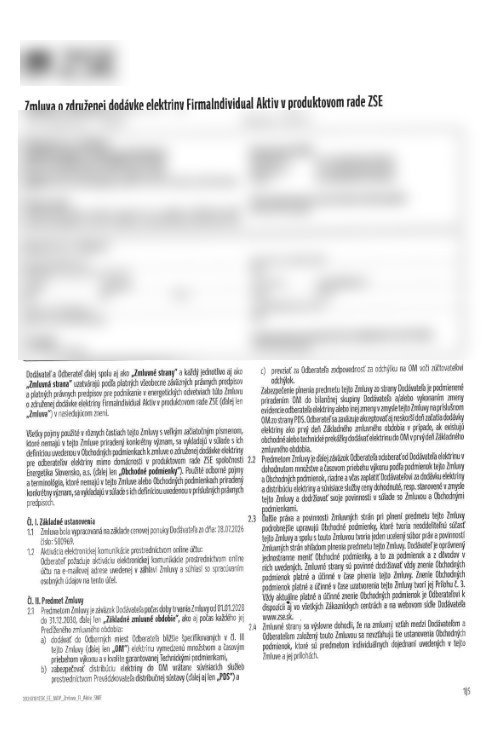
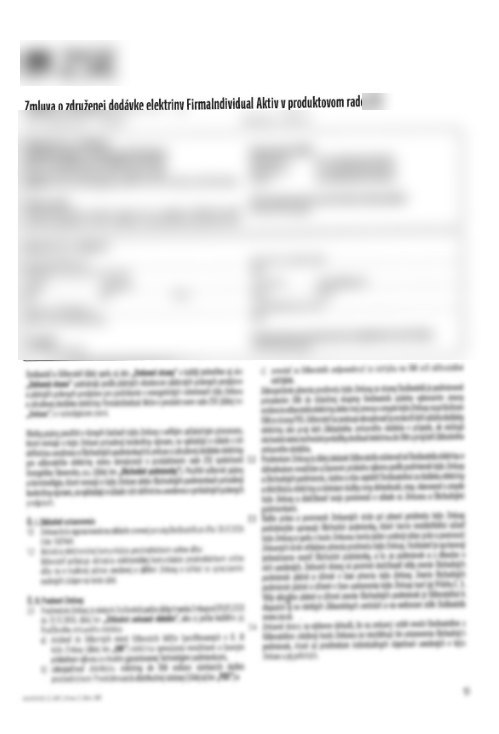
Obrazovka o zmluve: opravené poradie krokov, značka skrytá, karty A/B
Kroky boli v nezmyselnom poradí — najprv odfotiť, potom skryť údaje.
Prehodené: najprv sa prekryjú citlivé údaje, až potom sa fotí.

Značka dodávateľa zostávala čitateľná v nadpise dokumentu aj vo vnútri
zmluvných odstavcov. Nadpis je prekrytý a telo zmluvy zľahka rozostrené —
dohľadávať každý výskyt v texte by bolo krehké a poučné je aj tak to, aký
hustý taký dokument je, nie čo presne v ňom stojí.

"Vyskúšajte si prompt" je "Príklad promptu" a kopírovacie tlačidlo zmizlo —
je to ukážka, nie nástroj.

Dvojica otázok je teraz dvojica veľkých kariet A a B vedľa seba. Po výbere
zostanú čitateľné obe a pri každej sa doplní, čím presne je dobrá alebo
slabá — človek si tak porovná, v čom sa líšia.

Changed region(s): [[0.0301, 0.4796, 0.9319, 0.9292], [0.7214, 0.1199, 0.7816, 0.1499]]

diff --git a/public/assets/course.js b/public/assets/course.js
@@ -370,25 +370,6 @@
     wrap.appendChild(el("h3", "course-prompt-title", prompt.title || "Vyskúšajte si túto otázku"));
     const pre = el("div", "course-prompt-text", prompt.text.replace(/\n/g, "<br>"));
     wrap.appendChild(pre);
-    const btn = el("button", "btn btn-secondary course-prompt-copy", "Skopírovať otázku");
-    btn.type = "button";
-    btn.addEventListener("click", async () => {
-      try {
-        await navigator.clipboard.writeText(prompt.text);
-        btn.textContent = "Skopírované ✓";
-        btn.classList.add("copied");
-        setTimeout(() => { btn.textContent = "Skopírovať otázku"; btn.classList.remove("copied"); }, 2000);
-      } catch (err) {
-        // Bez povolenia na schránku aspoň text označíme, nech sa dá skopírovať ručne.
-        const range = document.createRange();
-        range.selectNodeContents(pre);
-        const sel = window.getSelection();
-        sel.removeAllRanges();
-        sel.addRange(range);
-        btn.textContent = "Text je označený — skopírujte ho";
-      }
-    });
-    wrap.appendChild(btn);
     card.appendChild(wrap);
   }
 
@@ -930,23 +911,38 @@
       box.appendChild(el("p", "course-choice-num",
         "<svg viewBox='0 0 24 24' fill='none' stroke='currentColor' stroke-width='2'><circle cx='12' cy='12' r='9'/><path d='M12 17h.01M9.5 9a2.5 2.5 0 0 1 5 0c0 1.5-2.5 2-2.5 3.5'/></svg>" +
         (slide.rounds.length === 1 && slide.chooseLabel ? slide.chooseLabel : "Otázka " + (idx + 1))));
-      const opts = el("div", "course-choice-opts");
-      const weak = el("button", "course-choice-opt", "<span class='course-choice-opt-icon'></span><span>" + r.weak + "</span>");
-      const good = el("button", "course-choice-opt", "<span class='course-choice-opt-icon'></span><span>" + r.good + "</span>");
-      [weak, good].forEach((b) => (b.type = "button"));
+      // Dve veľké karty vedľa seba, označené A a B. Po výbere obe zostanú
+      // čitateľné a doplní sa k nim, čím presne je otázka dobrá alebo slabá —
+      // človek si tak porovná, v čom sa líšia.
+      const opts = el("div", "course-choice-opts course-choice-cards");
+      const card2 = (letter, text) => {
+        const b = el("button", "course-choice-opt");
+        b.type = "button";
+        b.innerHTML =
+          "<span class='course-choice-letter'>" + letter + "</span>" +
+          "<span class='course-choice-body'><span class='course-choice-q'>" + text + "</span>" +
+          "<span class='course-choice-verdict'></span></span>" +
+          "<span class='course-choice-opt-icon'></span>";
+        return b;
+      };
+      const weak = card2("A", r.weak);
+      const good = card2("B", r.good);
       const result = el("div", "course-choice-result");
 
       function lock(chosenGood) {
         weak.disabled = true; good.disabled = true;
         good.classList.add("correct");
         good.querySelector(".course-choice-opt-icon").innerHTML = OPT_ICON_GOOD;
-        if (!chosenGood) {
-          weak.classList.add("incorrect");
-          weak.querySelector(".course-choice-opt-icon").innerHTML = OPT_ICON_BAD;
-        }
-        let html = "<p><strong>" + (chosenGood ? "Presne tak." : "Lepšia je druhá možnosť.") + "</strong> " + r.why + "</p>";
+        good.querySelector(".course-choice-verdict").textContent =
+          r.goodVerdict || "Konkrétna otázka — AI vie, na čo sa má pozrieť.";
+        weak.classList.add("incorrect");
+        weak.querySelector(".course-choice-opt-icon").innerHTML = OPT_ICON_BAD;
+        weak.querySelector(".course-choice-verdict").textContent =
+          r.weakVerdict || "Príliš všeobecná — odpoveď bude tiež všeobecná.";
+        let html = "<p><strong>" + (chosenGood ? "Správne." : "Lepšia je otázka B.") + "</strong> " + r.why + "</p>";
         if (r.answerPreview) html += "<p class='course-ai-answer'>„" + r.answerPreview + "“ — takto by mohla znieť odpoveď AI.</p>";
         result.innerHTML = html;
+        result.classList.add(chosenGood ? "ok" : "warn");
         result.classList.add("show");
       }
       weak.addEventListener("click", () => lock(false));

diff --git a/public/data/course.js b/public/data/course.js
@@ -666,8 +666,8 @@ window.COURSE_SLIDES = [
     },
     stepsTitle: "Ako na to — 4 kroky",
     steps: [
-      { title: "Odfotografujte alebo nahrajte zmluvu", text: "Nahrajte fotografiu, PDF alebo snímku obrazovky zmluvy do ChatGPT." },
-      { title: "Skryte osobné údaje", text: "Pred nahraním prekryte rodné číslo, číslo účtu, podpis, adresu, zákaznícke číslo a ďalšie citlivé údaje." },
+      { title: "Najprv skryte osobné údaje", text: "Prekryte rodné číslo, číslo účtu, podpis, adresu, zákaznícke číslo a ďalšie citlivé údaje — papierik, nálepka alebo prst pri fotení úplne stačia." },
+      { title: "Až potom odfotografujte alebo nahrajte", text: "Nahrajte do ChatGPT fotografiu, PDF alebo snímku obrazovky — už bez citlivých údajov." },
       { title: "Pýtajte sa konkrétne", text: "Namiesto otázky „Je táto zmluva dobrá?“ sa pýtajte na konkrétne veci: poplatky, pokuty, dobu viazanosti, výpoveď, zmenu ceny alebo automatické predĺženie." },
       { title: "Overte dôležité rozhodnutia", text: "AI sa môže pomýliť. Pri dôležitom rozhodnutí si odpoveď porovnajte s originálom zmluvy alebo sa poraďte s odborníkom." },
     ],
@@ -677,11 +677,13 @@ window.COURSE_SLIDES = [
         weak: "Je táto zmluva dobrá?",
         good: "Vysvetli mi túto zmluvu jednoducho. Na čo si mám dať pozor? Aké sú v nej poplatky, pokuty, viazanosť a podmienky výpovede?",
         why: "Čím konkrétnejšia otázka, tým užitočnejšiu odpoveď vám AI môže dať. Jej odpoveď si však vždy porovnajte s pôvodným textom zmluvy.",
+        weakVerdict: "Príliš všeobecná. „Dobrá“ je názor — AI netuší, podľa čoho ju má posúdiť, a odpovie tiež všeobecne.",
+        goodVerdict: "Konkrétna. AI vie, čo má v zmluve hľadať, a odpoveď sa dá overiť v texte.",
         answerPreview: "Napríklad: „Zmluva je uzatvorená na 24 mesiacov. Pri predčasnom ukončení sa v článku 7 uvádza pokuta 150 €. Skontrolujte aj podmienky automatického predĺženia.“",
       },
     ],
     prompt: {
-      title: "Vyskúšajte si prompt",
+      title: "Príklad promptu",
       text: "Vysvetli mi túto zmluvu jednoduchou slovenčinou, akoby si ju vysvetľoval človeku, ktorý sa nevyzná v právnych pojmoch. Upozorni ma najmä na:\n– cenu a všetky poplatky,\n– pokuty a sankcie,\n– dobu viazanosti,\n– podmienky výpovede,\n– automatické predĺženie,\n– možnosť zmeny ceny.\nAk niečomu nerozumieš alebo to v dokumente nevidíš, povedz to a nevymýšľaj si.",
     },
     note: "AI vám môže zmluvu vysvetliť, ale nerozhoduje za vás. Dôležité údaje si vždy skontrolujte v origináli dokumentu.",

diff --git a/public/assets/styles.css b/public/assets/styles.css
@@ -712,6 +712,25 @@ label {
 .course-choice-num svg { width: 18px; height: 18px; flex: none; }
 .course-belief-text { font-size: 1.02rem; margin: 0 0 .9rem; }
 .course-choice-opts { display: flex; flex-direction: column; gap: .6rem; }
+/* Dvojica otázok ako karty vedľa seba — na porovnanie treba vidieť obe naraz. */
+.course-choice-cards { display: grid; grid-template-columns: 1fr 1fr; gap: .8rem; }
+@media (max-width: 700px) { .course-choice-cards { grid-template-columns: 1fr; } }
+.course-choice-cards .course-choice-opt {
+  align-items: flex-start; gap: .7rem; padding: 1rem 1.05rem; border-radius: 14px;
+  border: 2px solid var(--line); background: var(--surface); text-align: left; height: 100%;
+}
+.course-choice-letter {
+  flex: none; width: 30px; height: 30px; border-radius: 50%; display: inline-flex;
+  align-items: center; justify-content: center; font-weight: 700; font-size: .95rem;
+  background: var(--surface-2); color: var(--ink);
+}
+.course-choice-cards .course-choice-opt.correct .course-choice-letter { background: var(--good); color: #fff; }
+.course-choice-cards .course-choice-opt.incorrect .course-choice-letter { background: var(--warn); color: #fff; }
+.course-choice-body { flex: 1; display: flex; flex-direction: column; gap: .35rem; }
+.course-choice-q { font-size: 1rem; line-height: 1.5; font-weight: 700; }
+.course-choice-verdict:empty { display: none; }
+.course-choice-verdict { font-size: .88rem; font-weight: 400; line-height: 1.5; opacity: .9; }
+.course-prompt-note { margin: .7rem 0 0; font-size: .9rem; color: var(--text-mute); }
 .course-choice-opts-row { flex-direction: row; }
 .course-choice-opt {
   display: flex; align-items: center; gap: .7rem;
@@ -755,8 +774,6 @@ label {
   background: var(--good-bg, #e3efe6); border-radius: 10px; padding: .9rem 1rem;
   font-size: .98rem; line-height: 1.65; color: var(--text);
 }
-.course-prompt-copy { margin-top: .8rem; font-size: .95rem; padding: .6rem 1.2rem; }
-.course-prompt-copy.copied { border-color: var(--good, #2f6b49); color: var(--good, #2f6b49); }
 
 /* Porovnanie tvrdení článku s faktami — tabuľka, na mobile bloky pod sebou. */
 .course-compare { margin-top: 1.5rem; }
